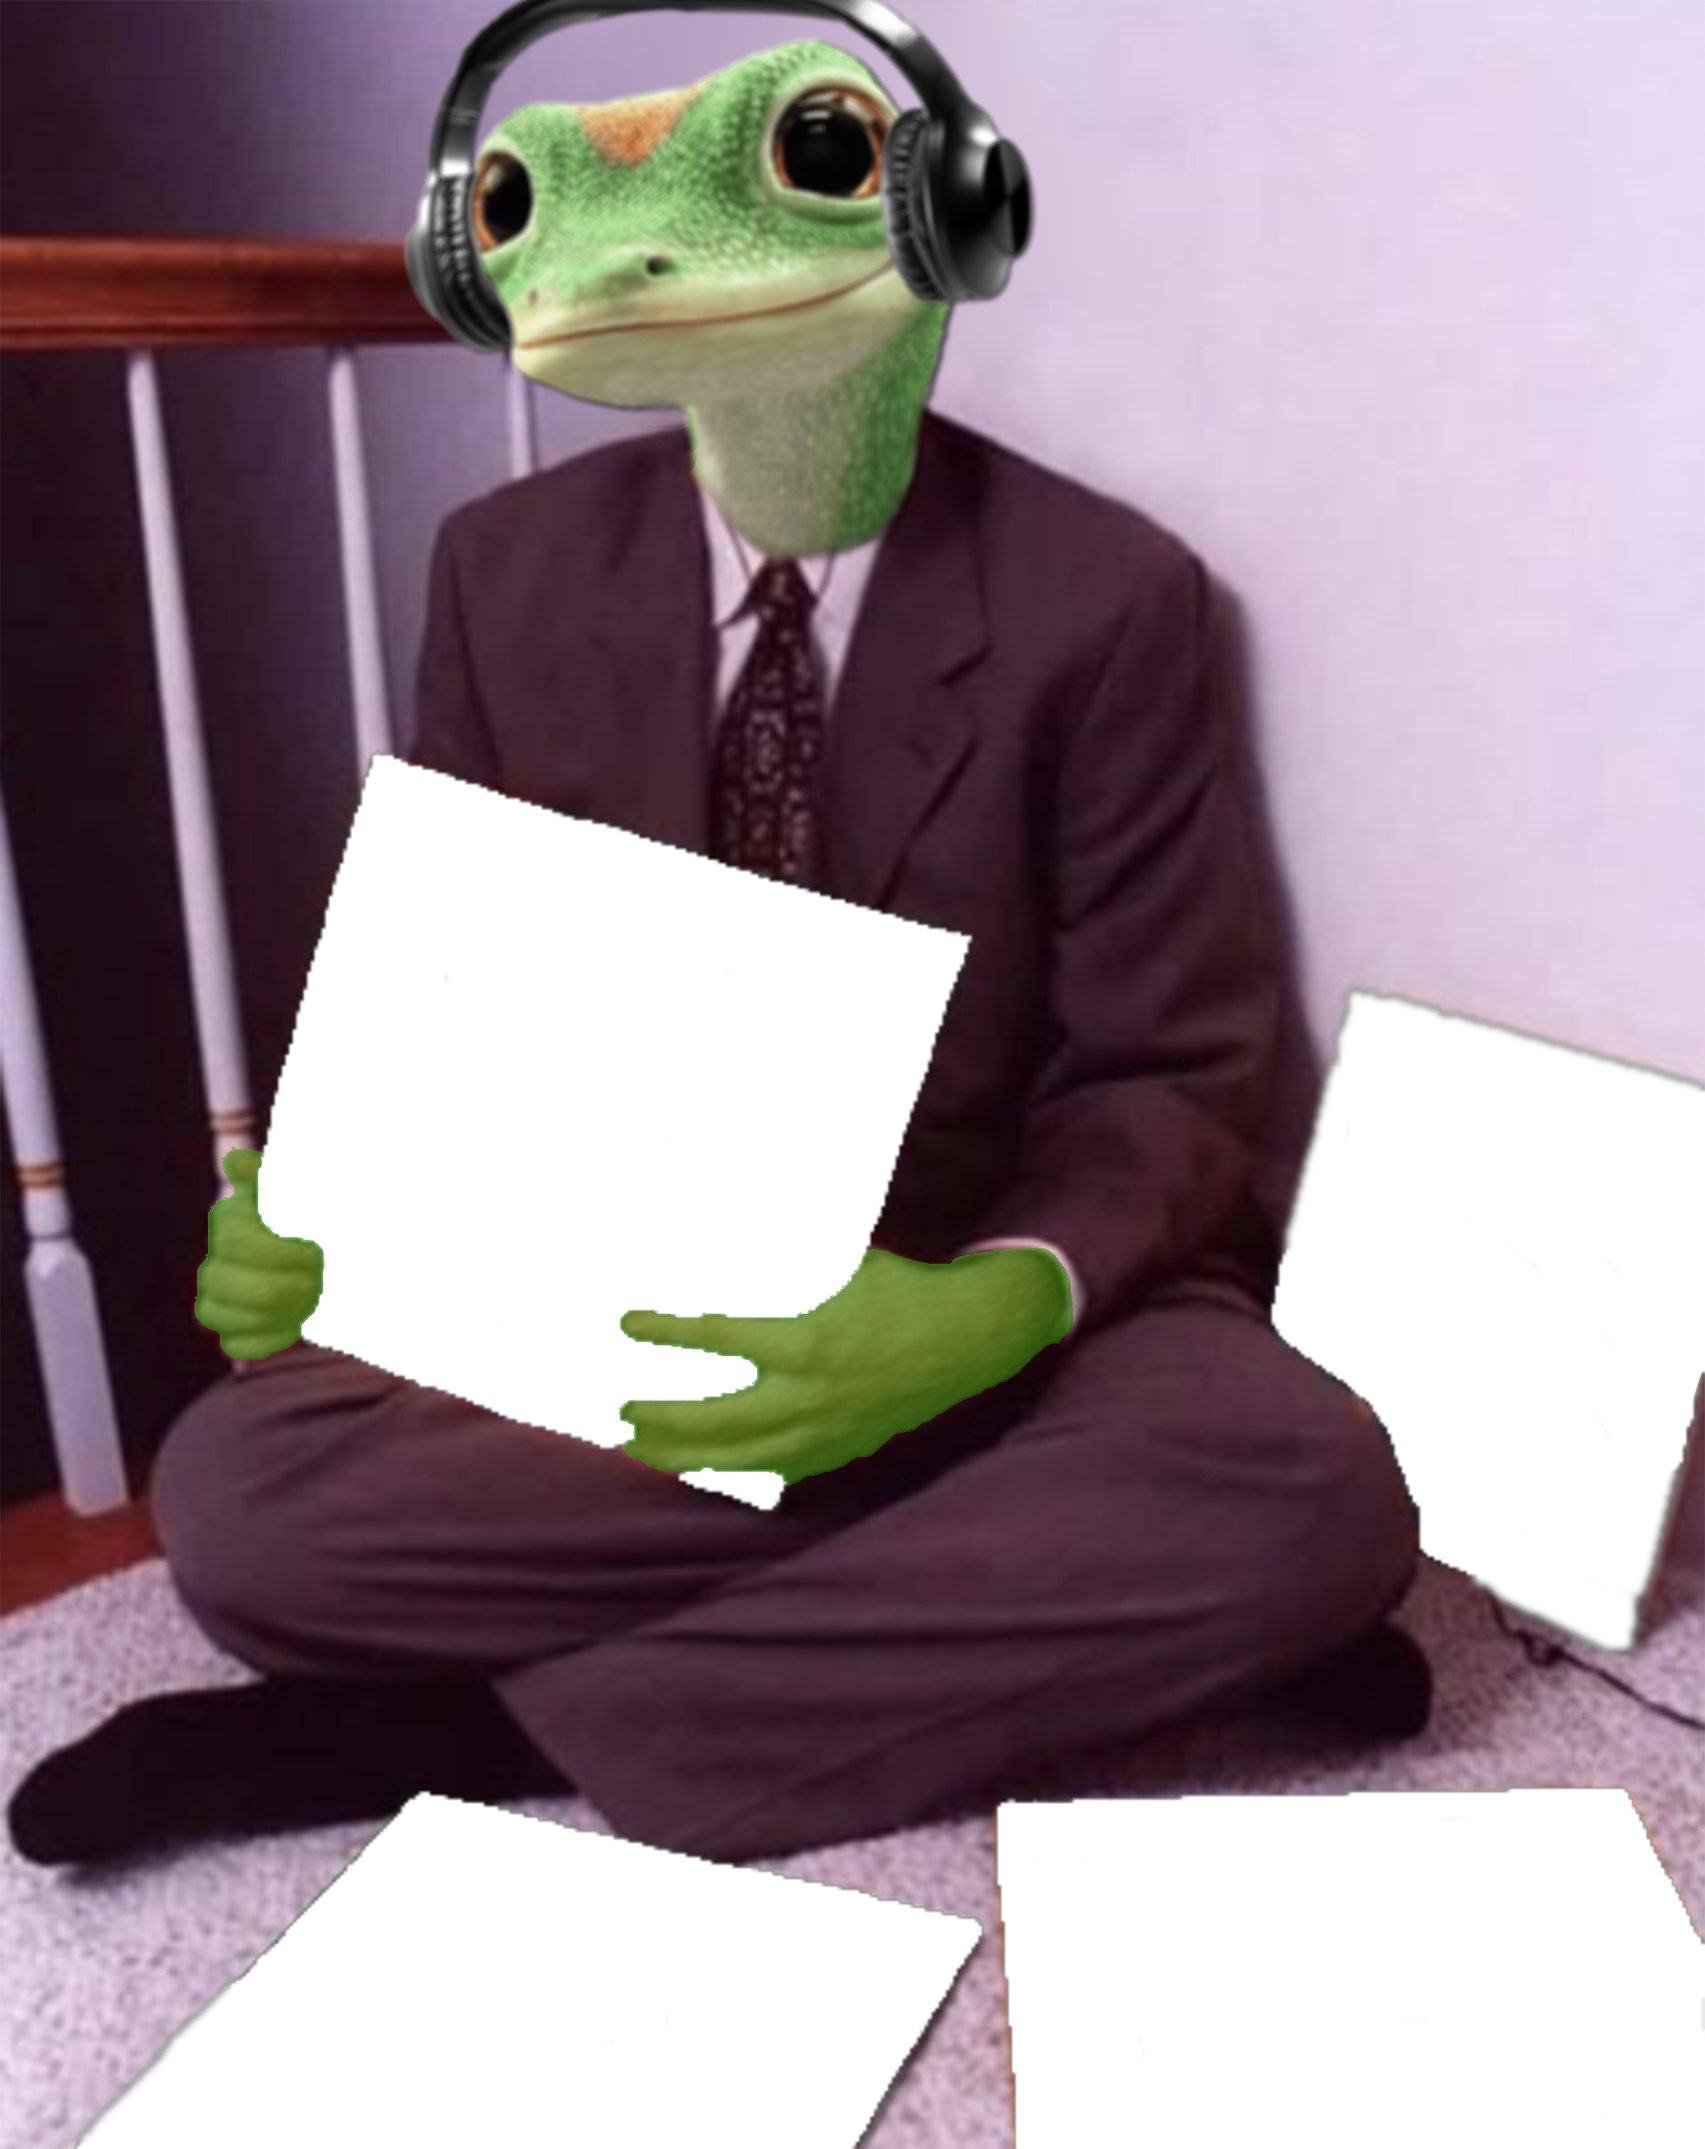
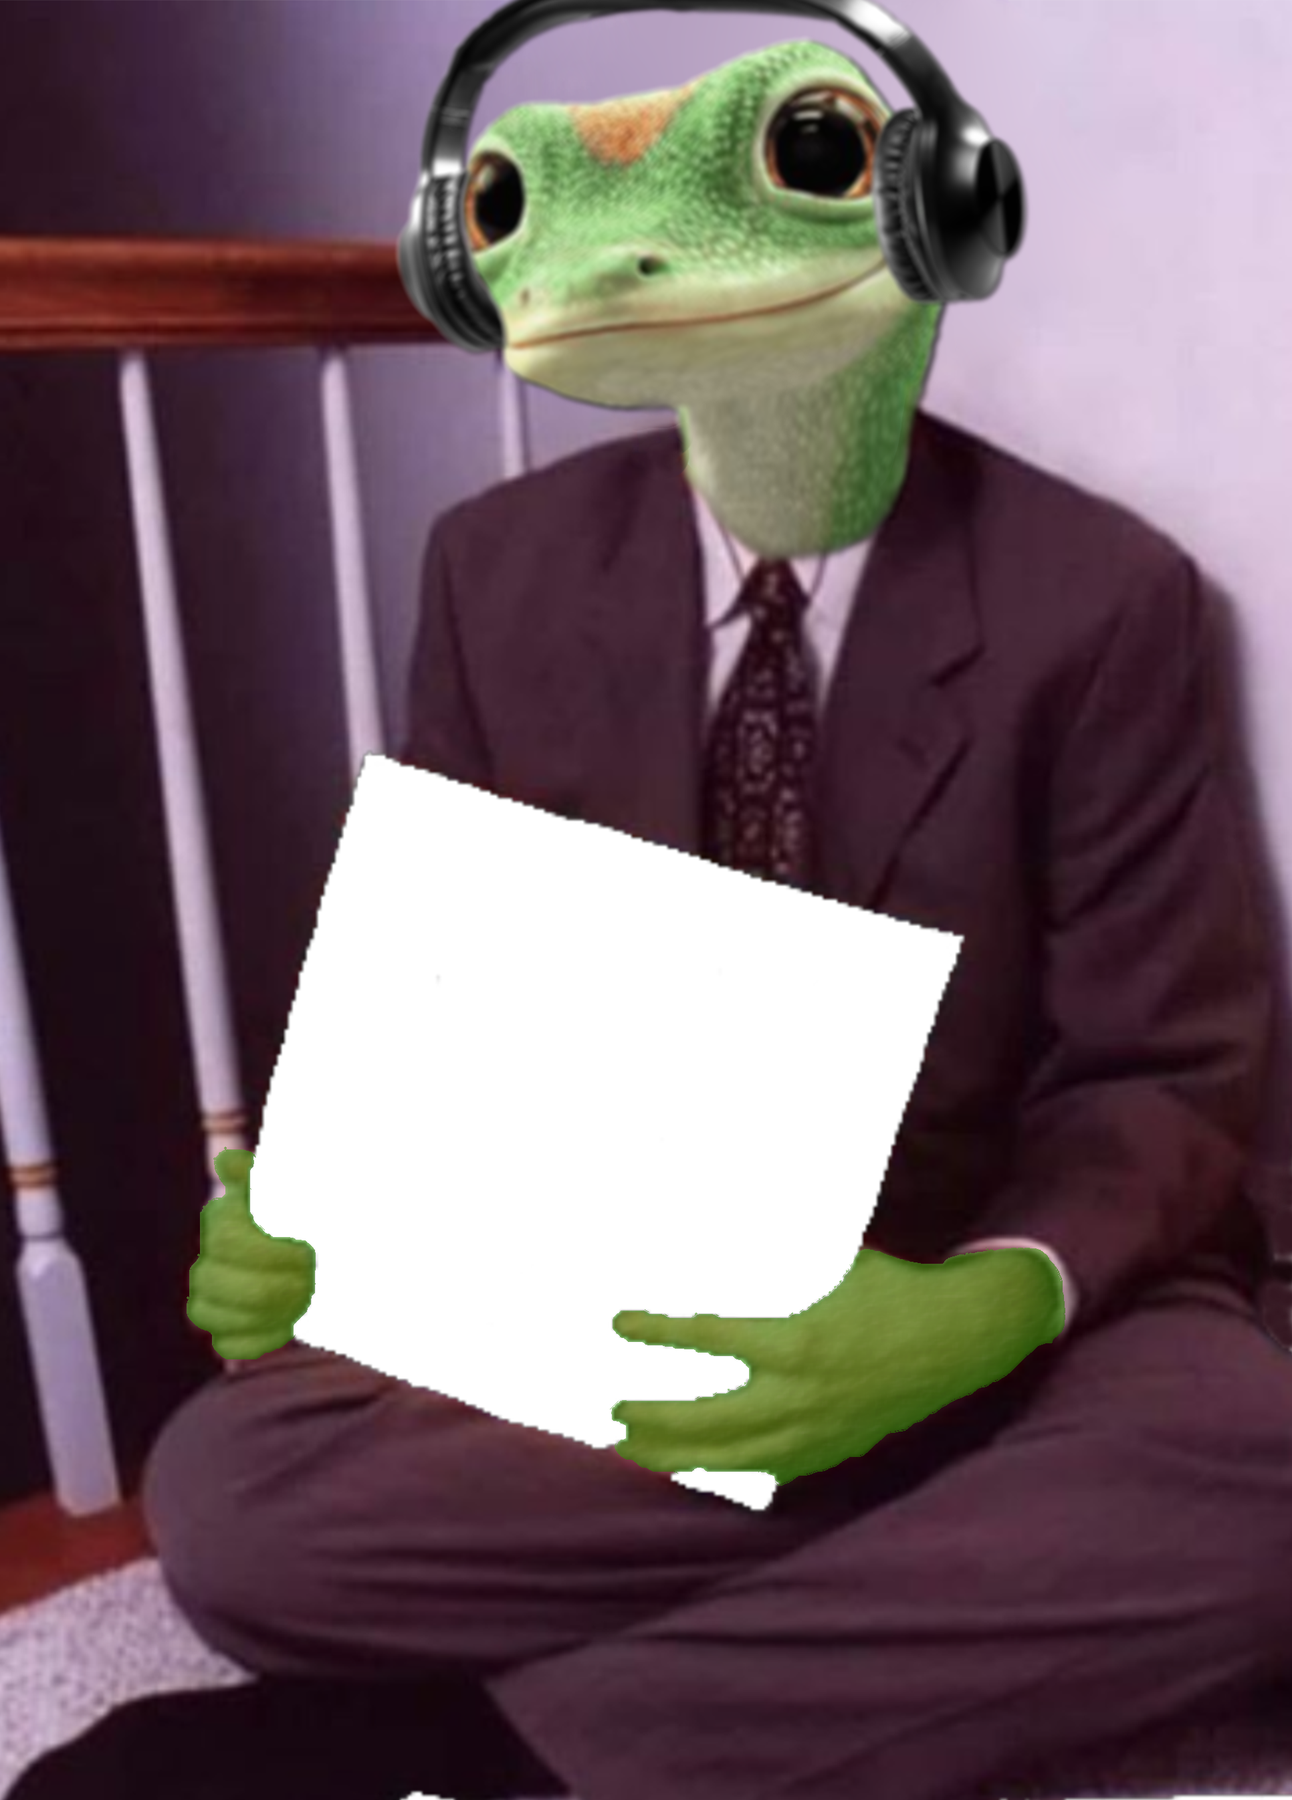
readjust martin img

diff --git a/martin/core/core.go b/martin/core/core.go
@@ -14,8 +14,8 @@ import (
 
 const (
 	COVER_DIMENSIONS_PX    = 920
-	MOVE_X                 = 450
-	MOVE_Y                 = 1360
+	MOVE_X                 = 505
+	MOVE_Y                 = 1265
 	COVER_ROTATION_DEGREES = 18.0
 
 	TEMP_FILE_NAME = "../temp/transparent_background.png" // this may have broke
